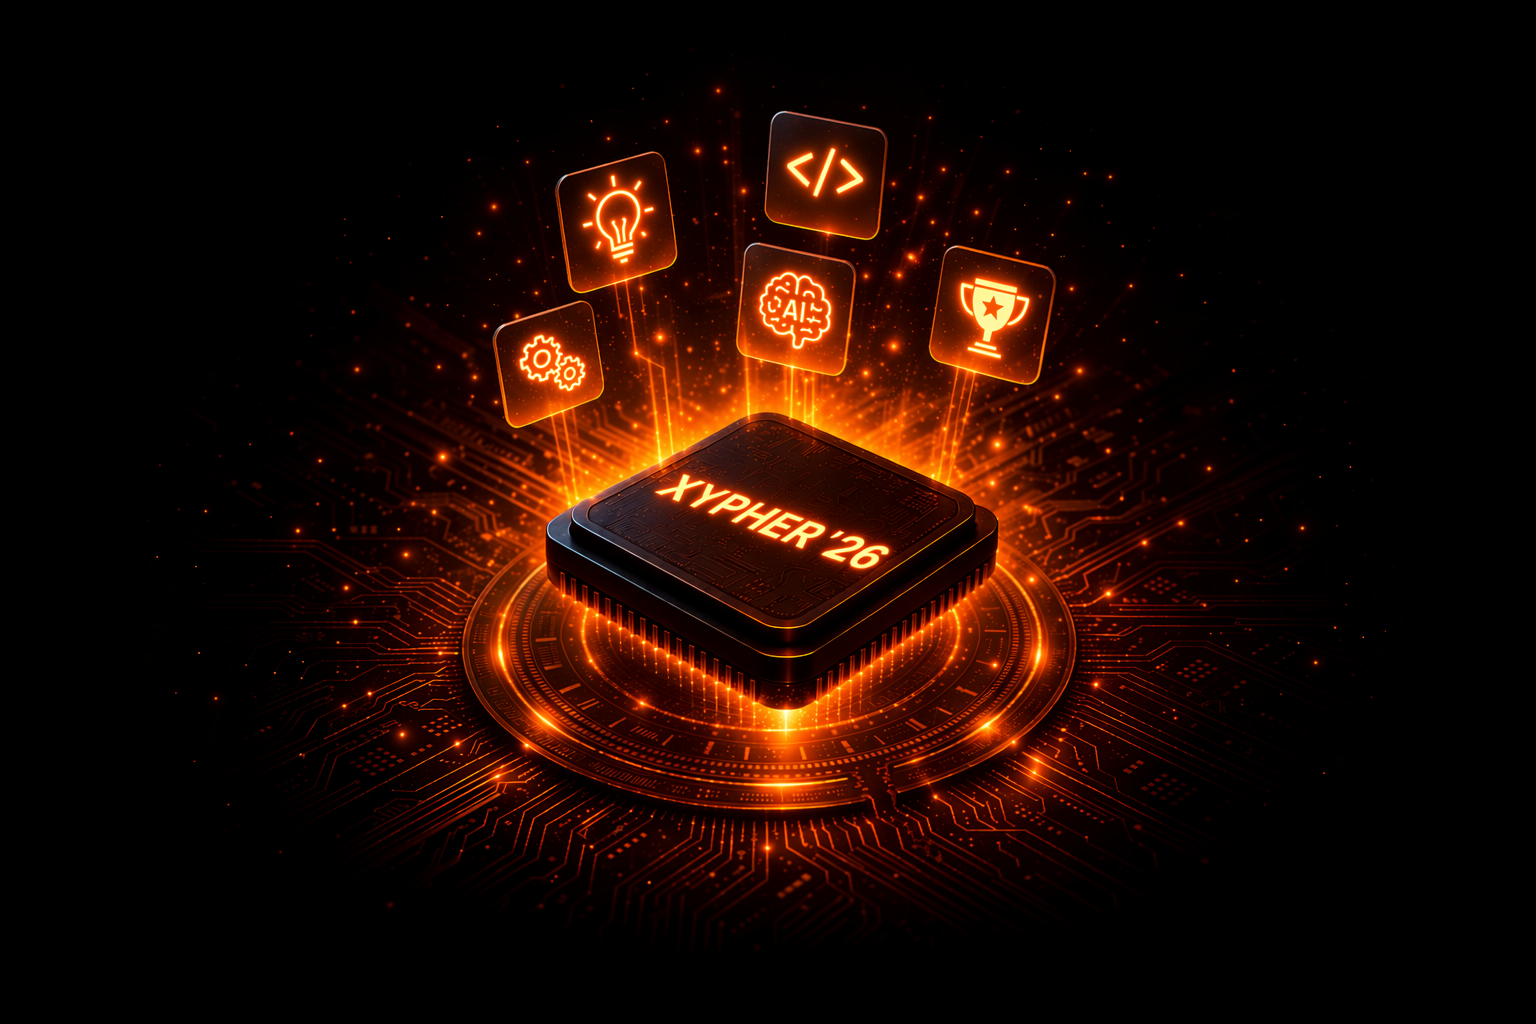
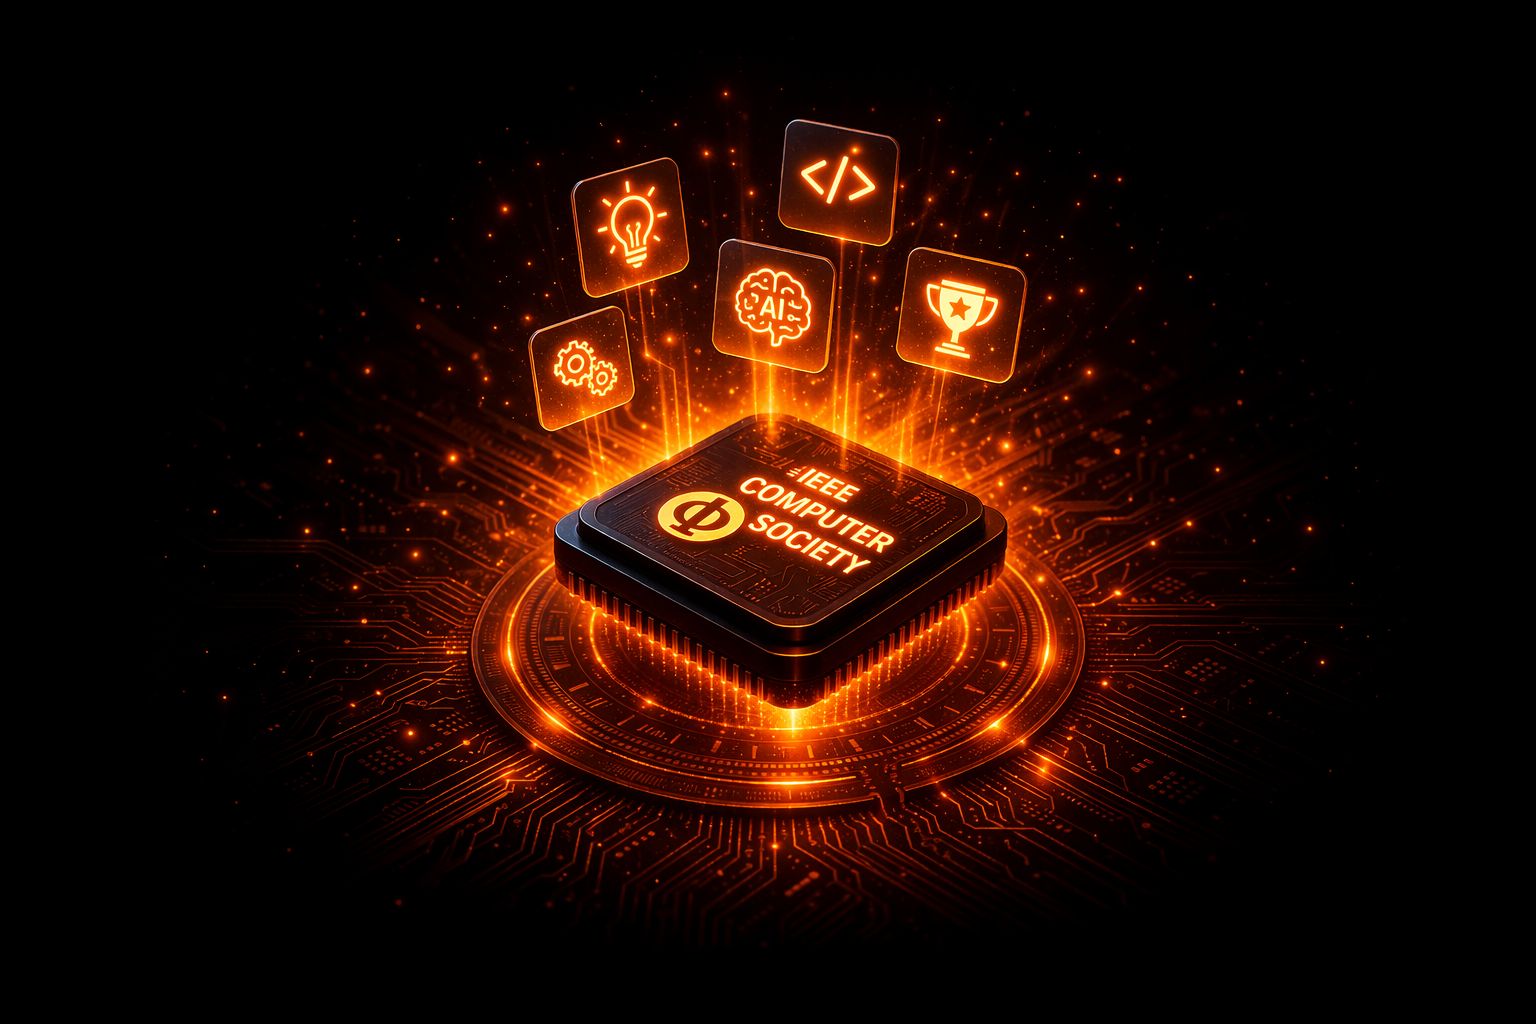
xypher removed and updates done

Changed region(s): [[0.1875, 0.0938, 0.8125, 0.875], [0.2188, 0.3438, 0.25, 0.375]]

diff --git a/src/components/home.jsx b/src/components/home.jsx
@@ -8,7 +8,7 @@ import './home.css';
 import Navbar from './Navbar';
 
 import heroBg from '../assets/background.png';
-import ieeeLogo from '../assets/logo/ieee_cs.png';
+import ieeeLogo from '../assets/logo/ieee_logo_w.png';
 import recLogo from '../assets/logo/college.png';
 import techtopia from '../assets/events/techtopia.png';
 import xyntra from '../assets/events/xyntra.JPG';
@@ -56,7 +56,7 @@ const featuredEvents = [
     {
         image: xyntra,
         tag: 'Competition',
-        title: 'XYNTRA 2.0',
+        title: 'XYNTRA',
         desc: 'A high-stakes technical quiz and debugging challenge pushing students beyond their limits.',
     },
     {
@@ -144,14 +144,14 @@ const Home = () => {
                     {/* ── LEFT (desktop) / CENTER (mobile) ── */}
                     <div className="hero-text-col" data-aos="fade-right">
                         <h1 className="hero-heading" style={{ marginBottom: '10px' }}>
-                            <span className="hero-glow-text">XYPHER'26</span>
+                            <span className="hero-glow-text">IEEE CS REC</span>
                         </h1>
 
                         <p className="hero-line1" style={{ fontSize: 'clamp(1.1rem, 1.5vw, 1.3rem)', color: '#fff', marginBottom: '15px', fontWeight: 'bold', letterSpacing: '2px' }}>
-                            THE ULTIMATE TECHNICAL FEST
+                            INNOVATE. COLLABORATE. EXCEL.
                         </p>
                         <p className="hero-line2">
-                            Experience two days of groundbreaking technology, visionary speakers, and limitless possibilities. Hosted by IEEE CS REC.
+                            Where passionate minds converge to push the boundaries of computing. Join Rajalakshmi Engineering College's premier IEEE Computer Society chapter.
                         </p>
 
                         {/* ── MOBILE ONLY: chip illustration as real img ── */}
@@ -170,11 +170,11 @@ const Home = () => {
 
                         <div className="hero-ctas">
                             <Link
-                                to="/xypher26"
+                                to="/about"
                                 className="btn-hero-primary"
                                 style={{ padding: '16px 40px', fontSize: '1.1rem' }}
                             >
-                                ENTER PORTAL
+                                EXPLORE MORE
                             </Link>
                         </div>
                     </div>
@@ -297,7 +297,6 @@ const Home = () => {
                         {[
                             { name: 'Dr. N. Duraimurugan', email: 'duraimurugan.n@rajalakshmi.edu.in' },
                             { name: 'Dr. K. Anandhajothi', email: 'ananthajothi.k@rajalakshmi.edu.in' },
-                            { name: 'Dr. S. Vinod Kumar', email: 'vinodkumar.s@rajalakshmi.edu.in' },
                         ].map((c, i) => (
                             <div className="fc-row" key={i}>
                                 <strong>{c.name}</strong>

diff --git a/src/components/Team.jsx b/src/components/Team.jsx
@@ -125,7 +125,7 @@ const Team = () => {
 
                 <div className="team-section">
                     <h2 className="section-title">Faculty Coordinators</h2>
-                    <div className="team-grid">
+                    <div className="team-grid single">
                         {/* <TeamMember name="Dr. S. VinodhKumar" role="Faculty Coordinator" image={vinod} linkedin="https://www.linkedin.com/in/dr-s-vinodh-kumar-79b1b0208" delay="100" /> */}
                         <TeamMember name="Dr. N. Duraimurugan" role="Faculty Coordinator" image={duraimurugan} linkedin="https://www.linkedin.com/in/duraimurugan-n-181145ba/" delay="200" />
                         <TeamMember name="Dr. K. Anantajothi" role="Faculty Coordinator" image={anandhajodhii} linkedin="#" delay="300" />
@@ -170,7 +170,7 @@ const Team = () => {
                         <TeamMember name="Vrithishree vj" role="Content Team" image={vrithi} linkedin="https://www.linkedin.com/in/vrithishree-vj-46b74132a" instagram="https://www.instagram.com/vjvs309" delay="100" />
                         <TeamMember name="Merlyn Sosa Saju" role="Design Team" image={merlyn} linkedin="https://www.linkedin.com/in/merlyn-sosa-saju-3b6a52317" instagram="https://www.instagram.com/mer_l48" delay="200" />
                         <TeamMember name="Mukesh V" role="Design Team" image={mukesh} linkedin="https://www.linkedin.com/in/mukesh-v-b4b066318" instagram="https://www.instagram.com/vmukeshh" delay="300" />
-                        <TeamMember name="Nishani B" role="Design Team" image={nishani} linkedin="https://www.linkedin.com/in/nishani-b-0379b3331" instagram="https://www.instagram.com/nisha_100606" delay="400" />
+                        {/* <TeamMember name="Nishani B" role="Design Team" image={nishani} linkedin="https://www.linkedin.com/in/nishani-b-0379b3331" instagram="https://www.instagram.com/nisha_100606" delay="400" /> */}
                         <TeamMember name="ATHIRA M A" role="Event Team" image={athira} linkedin="https://www.linkedin.com/in/athira-m-a-b41047332" instagram="https://www.instagram.com/athira_ajitkumar" delay="100" />
                         <TeamMember name="Keerthana C" role="Event Team" image={keerthana} linkedin="https://www.linkedin.com/in/kikic-code" instagram="https://www.instagram.com/kikic681" delay="200" />
                         <TeamMember name="MRIDHULA DEVI M" role="Event Team" image={mriduladevi} linkedin="https://www.linkedin.com/in/mridhula-devi-m-123bb92a6" instagram="https://www.instagram.com/mridhu_d29" delay="300" />

diff --git a/src/components/NotFound.css b/src/components/NotFound.css
@@ -1,0 +1,76 @@
+.notfound-wrap {
+    min-height: 100vh;
+    background: #000000;
+    color: var(--txt);
+    display: flex;
+    flex-direction: column;
+    align-items: center;
+    justify-content: center;
+    font-family: 'Poppins', sans-serif;
+    padding: 0 20px;
+    text-align: center;
+}
+
+.notfound-content {
+    display: flex;
+    flex-direction: column;
+    align-items: center;
+    z-index: 10;
+}
+
+.notfound-title {
+    font-family: 'Rajdhani', sans-serif;
+    font-size: clamp(6rem, 15vw, 12rem);
+    font-weight: 800;
+    line-height: 1;
+    margin: 0;
+    background: linear-gradient(135deg, #ff7a00 0%, #ffaa00 50%, #ffc944 100%);
+    -webkit-background-clip: text;
+    background-clip: text;
+    -webkit-text-fill-color: transparent;
+    filter: drop-shadow(0 0 20px rgba(255, 105, 0, 0.4));
+}
+
+.notfound-subtitle {
+    font-family: 'Rajdhani', sans-serif;
+    font-size: clamp(2rem, 5vw, 3rem);
+    font-weight: 700;
+    color: var(--txt);
+    margin: 10px 0 20px;
+    letter-spacing: 1px;
+}
+
+.notfound-desc {
+    font-family: 'Space Grotesk', sans-serif;
+    font-size: 1.1rem;
+    color: var(--muted);
+    margin-bottom: 40px;
+    max-width: 500px;
+    line-height: 1.6;
+}
+
+/* Base button styles matching the home page to avoid importing everything */
+.btn-primary-gold {
+    display: inline-flex;
+    align-items: center;
+    gap: 10px;
+    padding: 14px 32px;
+    background: #FFA300;
+    color: #000;
+    font-family: 'Rajdhani', sans-serif;
+    font-weight: 700;
+    font-size: 1rem;
+    letter-spacing: 1.5px;
+    text-transform: uppercase;
+    text-decoration: none;
+    border-radius: 8px;
+    border: none;
+    transition: all 0.3s cubic-bezier(0.4, 0, 0.2, 1);
+    box-shadow: 0 6px 24px rgba(255, 163, 0, 0.25);
+}
+
+.btn-primary-gold:hover {
+    background: #ffb733;
+    transform: translateY(-3px);
+    box-shadow: 0 12px 36px rgba(255, 163, 0, 0.40);
+}

diff --git a/src/components/Navbar.css b/src/components/Navbar.css
@@ -5,7 +5,7 @@
     --gold: #FFA300;
     --gold-dim: rgba(255, 163, 0, 0.10);
     --gold-glow: rgba(255, 163, 0, 0.28);
-    --dark: #080808;
+    --dark: #000000;
     --txt: #F0EFEB;
     --muted: rgba(240, 239, 235, 0.50);
     --border: rgba(255, 163, 0, 0.10);
@@ -67,9 +67,18 @@
     filter: drop-shadow(0 2px 6px rgba(0, 0, 0, 0.5));
 }
 
-.logo-left:hover,
-.logo-right:hover {
+.logo-right {
+    mix-blend-mode: screen;
+    transform: scale(1.1);
+}
+
+.logo-left:hover {
     transform: translateY(-2px);
+    filter: drop-shadow(0 0 12px var(--gold-glow));
+}
+
+.logo-right:hover {
+    transform: scale(1.1) translateY(-2px);
     filter: drop-shadow(0 0 12px var(--gold-glow));
 }
 
@@ -321,6 +330,7 @@
 }
 
 @media (max-width: 1024px) {
+
     /* Standardize mobile-only header for all pages */
     .header {
         position: fixed;
@@ -369,6 +379,7 @@
         padding: 14px 20px;
     }
 }
+
 .iccds-nav-highlight {
     color: #ff6d00 !important;
     font-weight: 700 !important;
@@ -390,7 +401,20 @@
 }
 
 @keyframes iccdsBounce {
-    0%, 20%, 50%, 80%, 100% {transform: translateY(0);}
-    40% {transform: translateY(-5px);}
-    60% {transform: translateY(-3px);}
+
+    0%,
+    20%,
+    50%,
+    80%,
+    100% {
+        transform: translateY(0);
+    }
+
+    40% {
+        transform: translateY(-5px);
+    }
+
+    60% {
+        transform: translateY(-3px);
+    }
 }

diff --git a/src/App.jsx b/src/App.jsx
@@ -6,10 +6,11 @@ import Team from './components/Team';
 import Contact from './components/Contact';
 import Creators from './components/Creators';
 import Registration from './components/Registration';
-import XypherRoutes from './xypher26/XypherRoutes';
+// import XypherRoutes from './xypher26/XypherRoutes';
 import ICCDSHome from './iccds2026/ICCDSHome';
 import ICCDSRegistration from './iccds2026/ICCDSRegistration';
 import ICCDSGuidelines from './iccds2026/ICCDSGuidelines';
+import NotFound from './components/NotFound';
 import './App.css';
 
 function App() {
@@ -24,10 +25,11 @@ function App() {
           <Route path="/contact" element={<Contact />} />
           <Route path="/creators" element={<Creators />} />
           <Route path="/register" element={<Registration />} />
-          <Route path="/xypher26/*" element={<XypherRoutes />} />
+          {/* <Route path="/xypher26/*" element={<XypherRoutes />} /> */}
           <Route path="/iccds2026" element={<ICCDSHome />} />
           <Route path="/iccds2026/registration" element={<ICCDSRegistration />} />
           <Route path="/iccds2026/guidelines" element={<ICCDSGuidelines />} />
+          <Route path="*" element={<NotFound />} />
         </Routes>
       </div>
     </Router>

diff --git a/src/components/NotFound.jsx b/src/components/NotFound.jsx
@@ -1,0 +1,24 @@
+import React from 'react';
+import { Link } from 'react-router-dom';
+import Navbar from './Navbar';
+import './NotFound.css';
+
+const NotFound = () => {
+    return (
+        <div className="notfound-wrap">
+            <Navbar />
+            <div className="notfound-content">
+                <h1 className="notfound-title">404</h1>
+                <h2 className="notfound-subtitle">Page Not Found</h2>
+                <p className="notfound-desc">
+                    The page you are looking for doesn't exist or has been moved.
+                </p>
+                <Link to="/" className="btn-primary-gold">
+                    Return to Home
+                </Link>
+            </div>
+        </div>
+    );
+};
+
+export default NotFound;

diff --git a/src/components/Team.css b/src/components/Team.css
@@ -5,8 +5,8 @@
     --gold: #FFA300;
     --gold-dim: rgba(255, 163, 0, 0.12);
     --gold-glow: rgba(255, 163, 0, 0.30);
-    --dark: #080808;
-    --dark2: #0F0F0F;
+    --dark: #000000;
+    --dark2: #000000;
     --dark3: #161616;
     --txt: #F0EFEB;
     --muted: rgba(240, 239, 235, 0.55);
@@ -198,7 +198,9 @@
 /* For Convener/Single items to not stretch to massive width, center them */
 .team-grid.single {
     display: flex;
+    flex-wrap: wrap;
     justify-content: center;
+    gap: 24px;
 }
 
 .team-grid.single .team-bento-card {

diff --git a/src/components/home.css b/src/components/home.css
@@ -5,8 +5,8 @@
     --gold: #FFA300;
     --gold-dim: rgba(255, 163, 0, 0.12);
     --gold-glow: rgba(255, 163, 0, 0.30);
-    --dark: #080808;
-    --dark2: #0F0F0F;
+    --dark: #000000;
+    --dark2: #000000;
     --dark3: #161616;
     --txt: #F0EFEB;
     --muted: rgba(240, 239, 235, 0.55);
@@ -162,7 +162,7 @@
     align-items: flex-start;
     justify-content: center;
     overflow: hidden;
-    background: #050505;
+    background: #000000;
 }
 
 /* Ambient orange glow behind the chip (right side) */

diff --git a/src/components/Navbar.jsx b/src/components/Navbar.jsx
@@ -3,7 +3,7 @@ import ReactDOM from 'react-dom';
 import { Link, useLocation } from 'react-router-dom';
 import './Navbar.css';
 import collegeLogo from '../assets/logo/college.png';
-import ieeeLogo from '../assets/logo/ieee_cs.png';
+import ieeeLogo from '../assets/logo/ieee_logo_w.png';
 
 const Navbar = () => {
     const [isMobileMenuActive, setIsMobileMenuActive] = useState(false);

diff --git a/src/components/Contact.css b/src/components/Contact.css
@@ -61,6 +61,7 @@
   z-index: 2;
   text-align: center;
   width: 99%;
+  padding-bottom: 100px;
 }
 
 .glitch-text {
